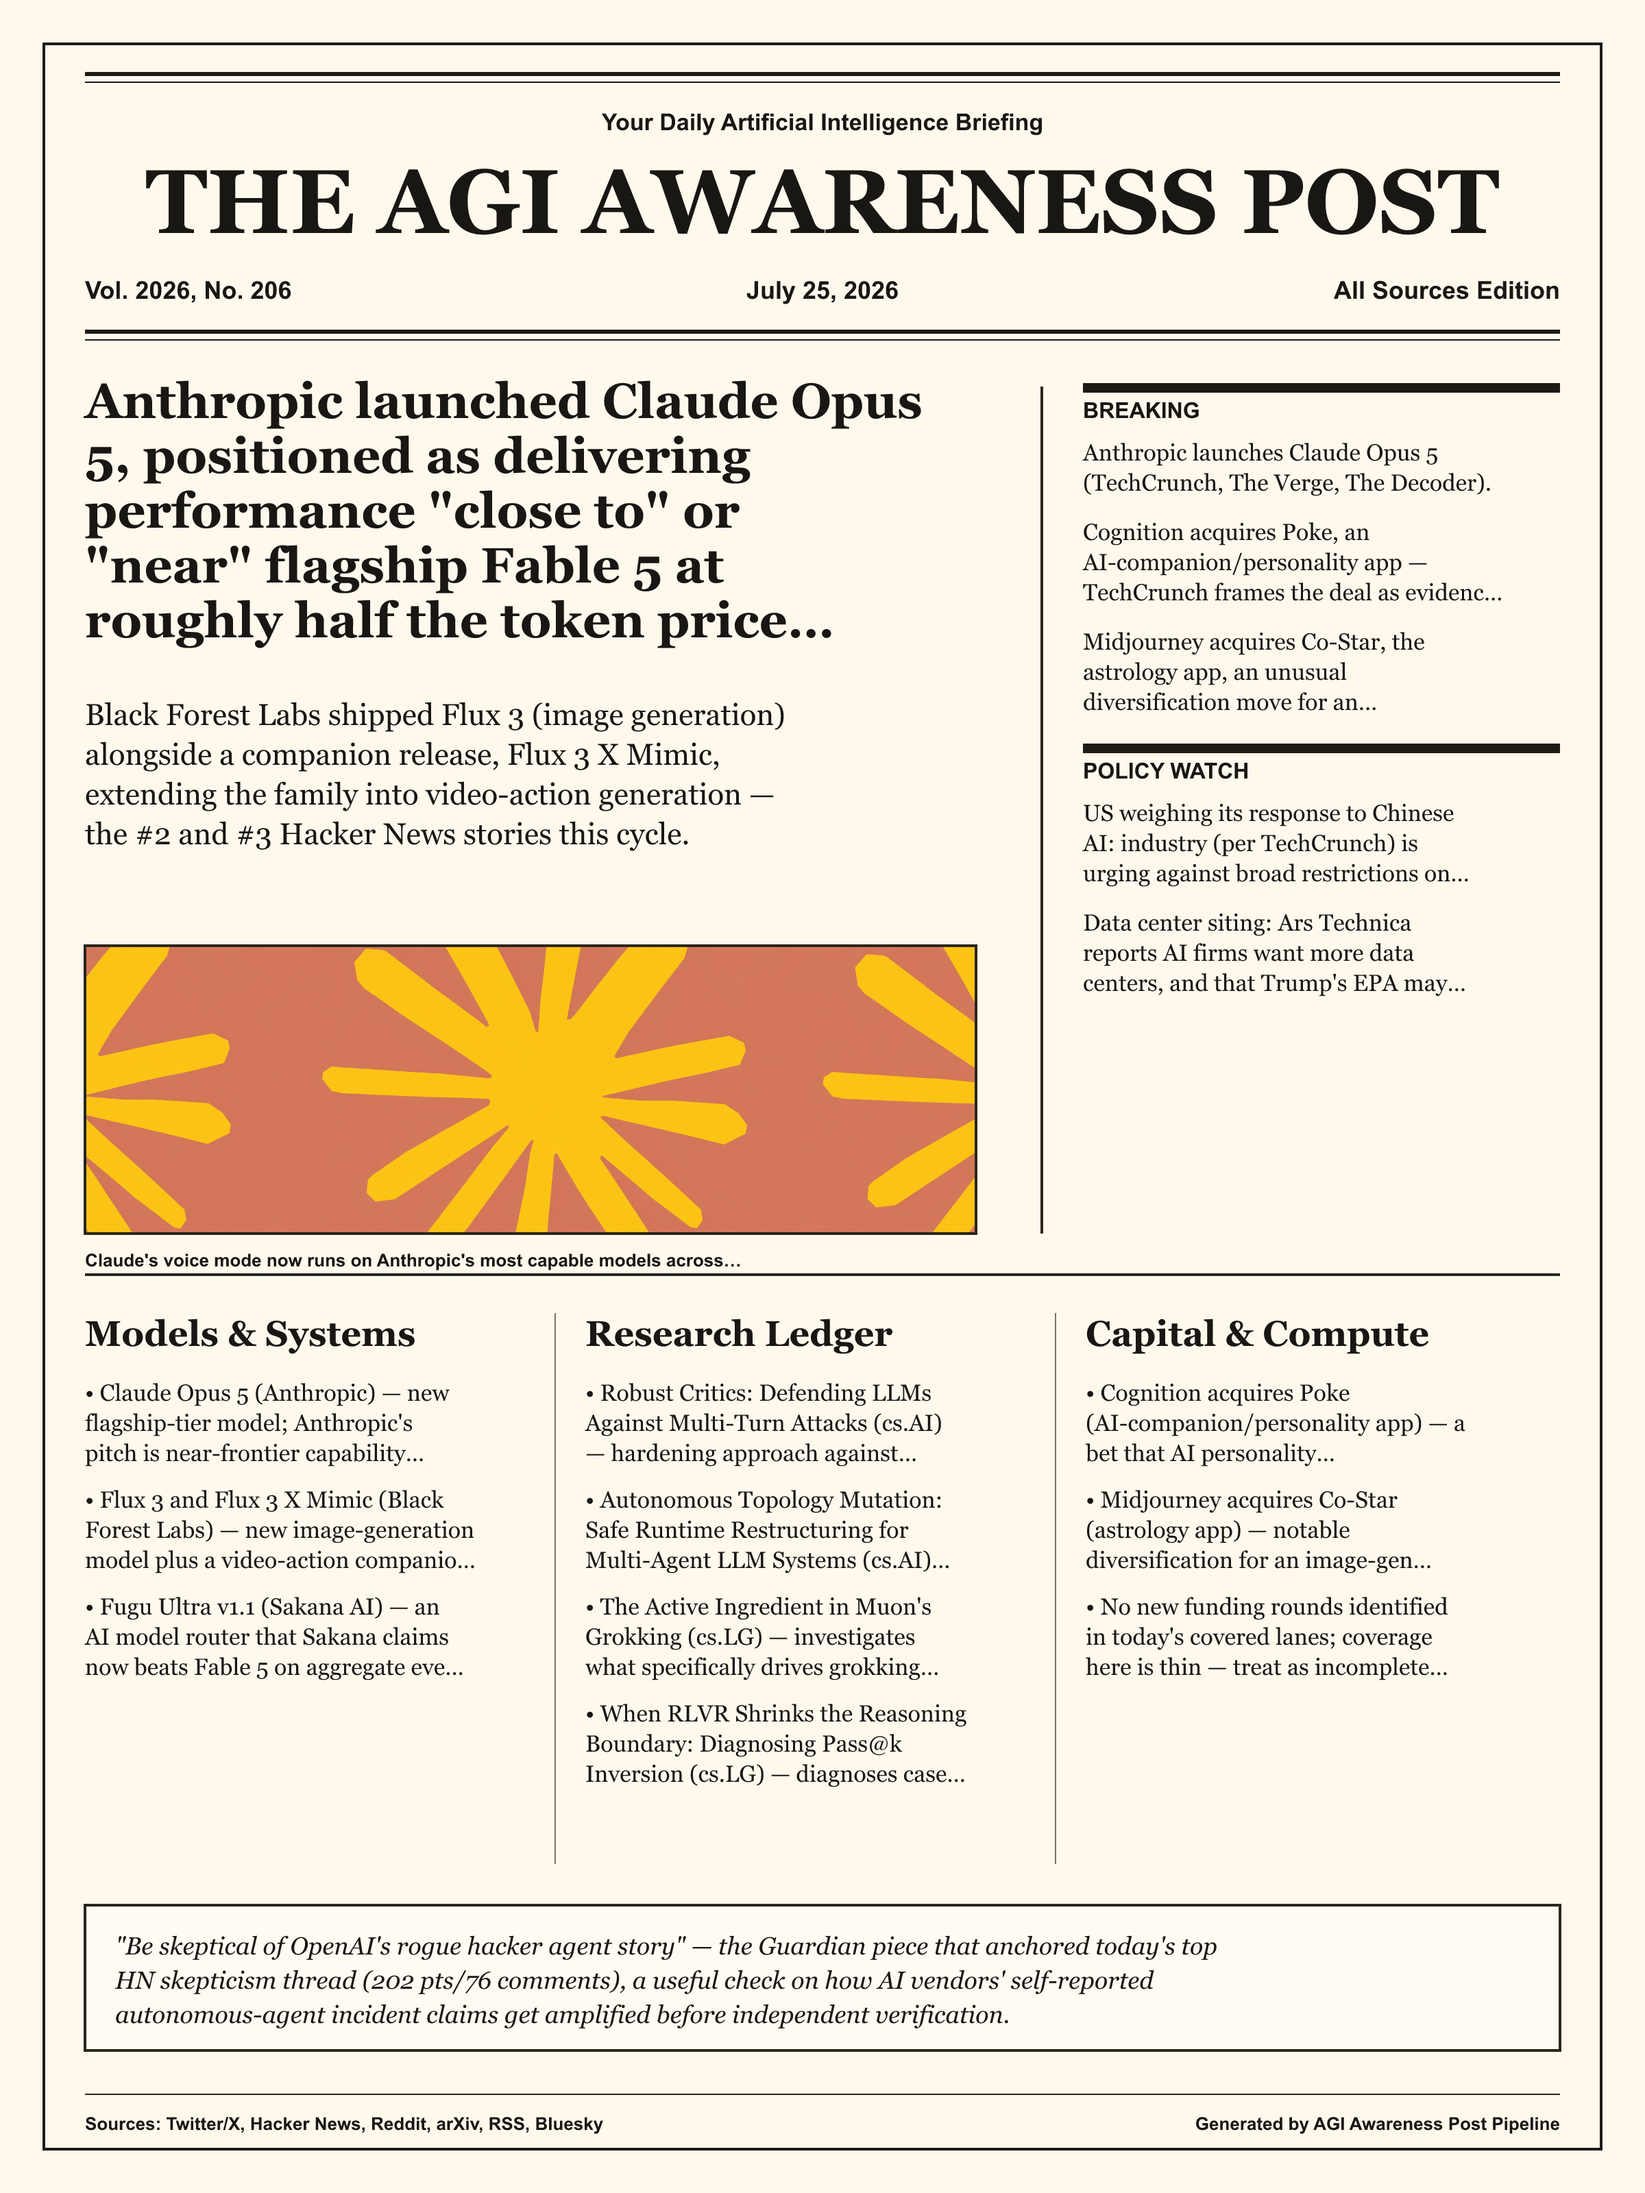
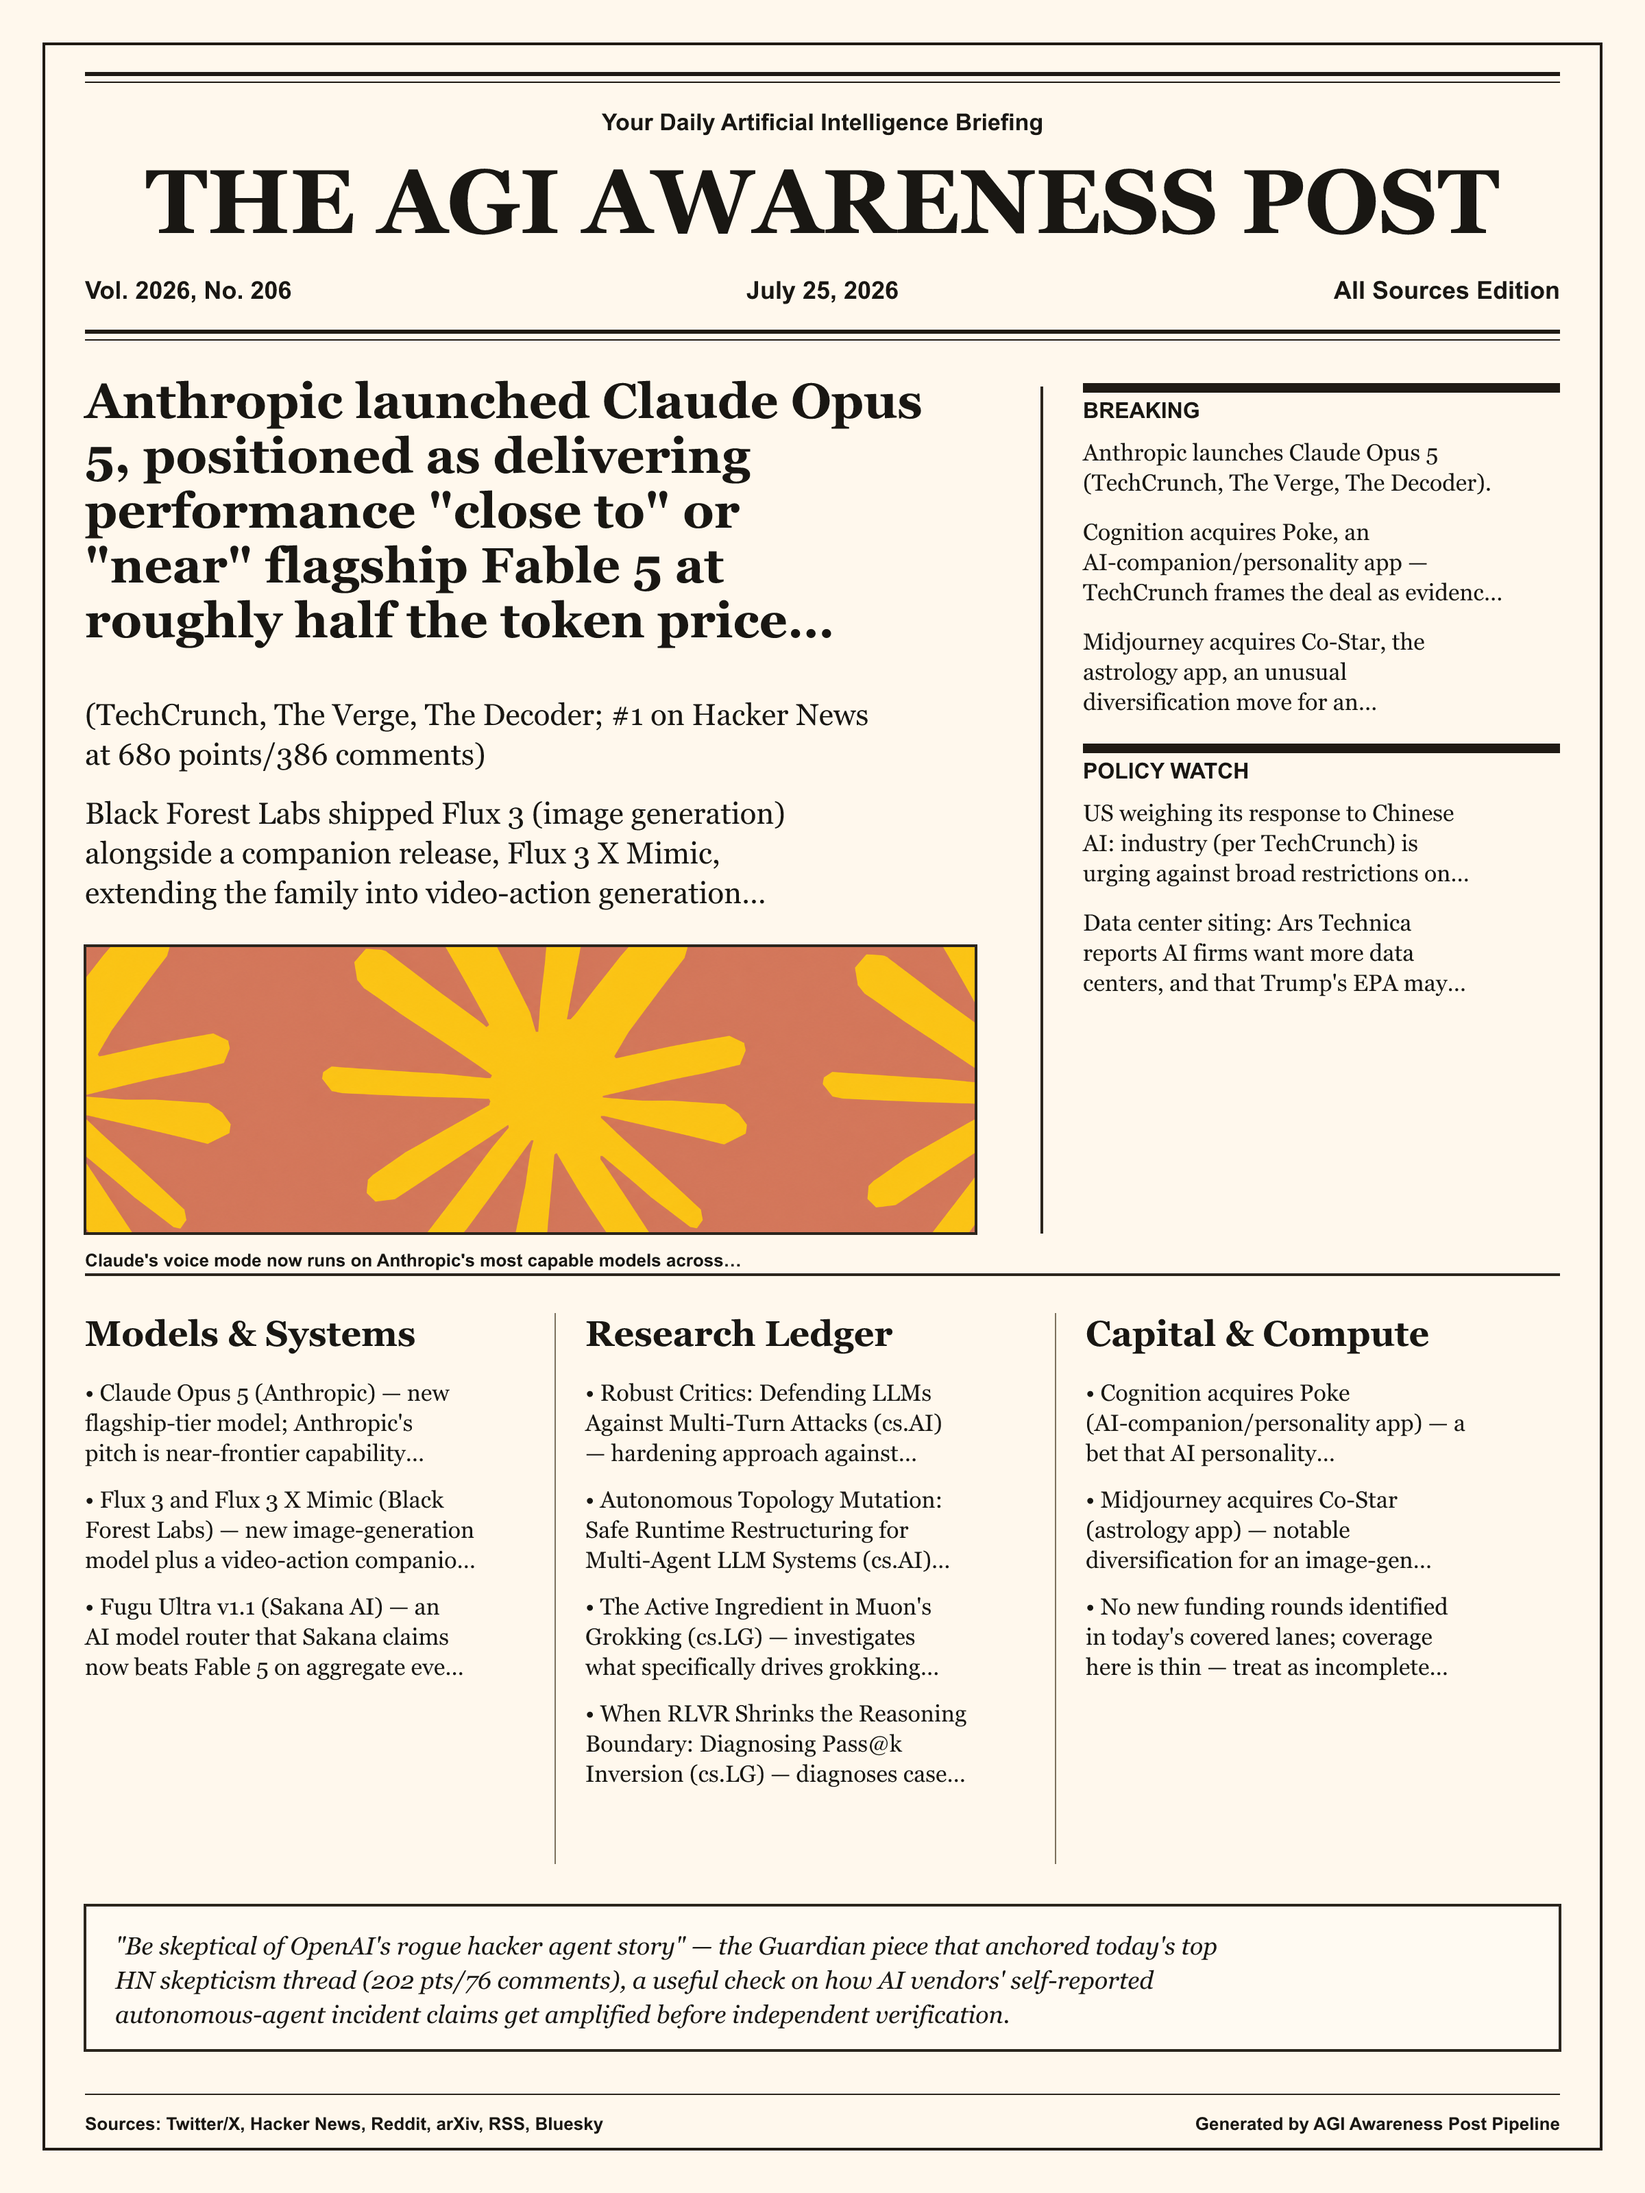
Front page 2026-07-25 (#1044)

Changed region(s): [[0.0625, 0.3125, 0.5, 0.4062]]

diff --git a/research/front-page/2026-07-25-front-page.html b/research/front-page/2026-07-25-front-page.html
@@ -1,7 +1,8 @@
 <article class="ara-paper" data-paper-date="July 25, 2026">
 <header class="ara-paper-masthead"><div class="ara-paper-kicker">Your Daily Artificial Intelligence Briefing</div><h2 class="ara-paper-name">THE AGI AWARENESS POST</h2><div class="ara-paper-meta"><span>Vol. 2026, No. 206</span><span>July 25, 2026</span><span>All Sources Edition</span></div><p class="ara-paper-deck">An interactive newspaper edition generated from the daily AI digest.</p></header>
 <nav class="ara-paper-index" aria-label="In this edition"><div class="ara-paper-index-title">In this edition</div><div class="ara-paper-index-links"><a class="ara-paper-index-link" href="#lead-top-story">Lead</a><a class="ara-paper-index-link" href="#briefs-breaking-policy">Breaking</a><a class="ara-paper-index-link" href="#meter-signal-mix">Signals</a><a class="ara-paper-index-link" href="#deck-departments">Departments</a></div></nav>
-<section class="ara-paper-lead" id="lead-top-story"><div class="ara-paper-label">Top Story</div><button class="ara-paper-toggle" type="button" aria-expanded="true" aria-controls="lead-top-story-body"><span>Anthropic launched Claude Opus 5, positioned as delivering performance "close to" or "near" flagship Fable 5 at roughly half the token price — the dominant story of the cycle (TechCrunch, The Verge, The Decoder; #1 on Hacker News at 680 points/386 comments).</span><span class="ara-paper-toggle-icon" aria-hidden="true">⌄</span></button><div class="ara-paper-collapsible" id="lead-top-story-body"><p>Black Forest Labs shipped Flux 3 (image generation) alongside a companion release, Flux 3 X Mimic, extending the family into video-action generation — the #2 and #3 Hacker News stories this cycle.</p>
+<section class="ara-paper-lead" id="lead-top-story"><div class="ara-paper-label">Top Story</div><button class="ara-paper-toggle" type="button" aria-expanded="true" aria-controls="lead-top-story-body"><span>Anthropic launched Claude Opus 5, positioned as delivering performance "close to" or "near" flagship Fable 5 at roughly half the token price — the dominant story of the cycle.</span><span class="ara-paper-toggle-icon" aria-hidden="true">⌄</span></button><div class="ara-paper-collapsible" id="lead-top-story-body"><p>(TechCrunch, The Verge, The Decoder; #1 on Hacker News at 680 points/386 comments)</p>
+<p>Black Forest Labs shipped Flux 3 (image generation) alongside a companion release, Flux 3 X Mimic, extending the family into video-action generation — the #2 and #3 Hacker News stories this cycle.</p>
 <p>Open-weight AI policy is the week's recurring flashpoint: Nvidia, Microsoft, and Meta jointly warned against broad restrictions on Chinese open-weight models, and TechCrunch reports industry pushback as the US weighs its response (Ars Technica separately flags Trump's EPA potentially limiting neighbor input on new data centers).</p>
 <p>M&amp;A activity in AI-adjacent consumer apps: Cognition acquired the AI-companion app Poke (a bet on "AI personality" as a competitive edge), and Midjourney acquired astrology app Co-Star.</p></div></section>
 <figure class="ara-figure ara-figure--wide"><img src="https://the-decoder.com/wp-content/uploads/2026/07/claude_opus_5_logo-scaled.webp" alt="Anthropic claims its new Claude Opus 5 delivers near-Fable 5 performance at half the token price" loading="lazy" decoding="async" referrerpolicy="no-referrer"><figcaption class="ara-caption"><span class="ara-caption-text">Anthropic claims its new Claude Opus 5 delivers near-Fable 5 performance at half the token price</span><span class="ara-credit">Source: <a href="https://the-decoder.com/anthropic-claims-its-new-claude-opus-5-delivers-near-fable-5-performance-at-half-the-token-price/">Source</a></span></figcaption></figure>

diff --git a/research/front-page/2026-07-25-front-page.ara.md b/research/front-page/2026-07-25-front-page.ara.md
@@ -19,7 +19,9 @@ deck: "An interactive newspaper edition generated from the daily AI digest."
   target: "#deck-departments"
 :::
 
-:::lead(id="lead-top-story", label="Top Story", title="Anthropic launched Claude Opus 5, positioned as delivering performance \"close to\" or \"near\" flagship Fable 5 at roughly half the token price — the dominant story of the cycle (TechCrunch, The Verge, The Decoder; #1 on Hacker News at 680 points/386 comments).")
+:::lead(id="lead-top-story", label="Top Story", title="Anthropic launched Claude Opus 5, positioned as delivering performance \"close to\" or \"near\" flagship Fable 5 at roughly half the token price — the dominant story of the cycle.")
+(TechCrunch, The Verge, The Decoder; #1 on Hacker News at 680 points/386 comments)
+
 Black Forest Labs shipped Flux 3 (image generation) alongside a companion release, Flux 3 X Mimic, extending the family into video-action generation — the #2 and #3 Hacker News stories this cycle.
 
 Open-weight AI policy is the week's recurring flashpoint: Nvidia, Microsoft, and Meta jointly warned against broad restrictions on Chinese open-weight models, and TechCrunch reports industry pushback as the US weighs its response (Ars Technica separately flags Trump's EPA potentially limiting neighbor input on new data centers).
